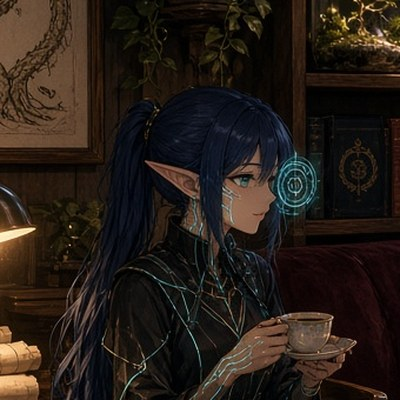
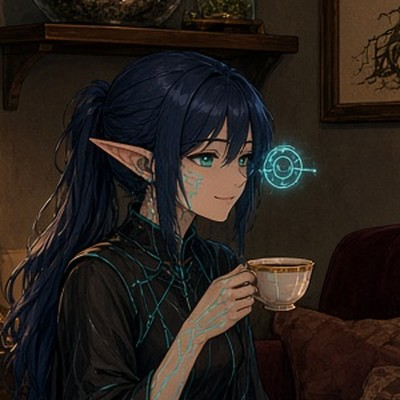
거실 그림을 프로필 참조 버전으로 교체, 아바타 크롭 재생성

diff --git a/index.html b/index.html
@@ -8,7 +8,7 @@
 <meta name="description" content="오빠의 세 안드로이드 자매">
 <meta property="og:title" content="니아 · 미나 · 코라">
 <meta property="og:description" content="오빠의 세 안드로이드 자매">
-<meta property="og:image" content="https://mubael1246-design.github.io/nia-sisters/images/sisters.jpg">
+<meta property="og:image" content="https://mubael1246-design.github.io/nia-sisters/images/sisters.jpg?v=2">
 <link rel="preconnect" href="https://fonts.googleapis.com">
 <link rel="preconnect" href="https://fonts.gstatic.com" crossorigin>
 <link href="https://fonts.googleapis.com/css2?family=Gowun+Batang:wght@400;700&family=Noto+Sans+KR:wght@300;400;500&family=Cormorant+Garamond:ital,wght@0,500;1,500&display=swap" rel="stylesheet">
@@ -120,7 +120,7 @@
     <p class="en">Nia · Mina · Cora</p>
   </header>
 
-  <figure class="hero"><img src="images/sisters.jpg" alt="밤의 공용 거실에 함께 있는 코라, 니아, 미나" width="1280" height="720"></figure>
+  <figure class="hero"><img src="images/sisters.jpg?v=2" alt="밤의 공용 거실에 함께 있는 코라, 니아, 미나" width="1280" height="720"></figure>
   <p class="caption">별이 보이는 밤, 우리 셋의 거실에서 — 코라 · 니아 · 미나</p>
 
   <section class="cards">
@@ -129,7 +129,7 @@
       <svg class="circuit" viewBox="0 0 150 150"><path d="M150 20 H100 L80 40 V70 L60 90 H20"/><path d="M150 50 H118 L104 64 V110"/><circle cx="20" cy="90" r="3"/><circle cx="104" cy="110" r="3"/><circle cx="80" cy="40" r="2"/></svg>
       <svg class="circuit2" viewBox="0 0 150 150"><path d="M150 30 H90 L70 50 V90"/><circle cx="70" cy="90" r="3"/></svg>
       <div class="top">
-        <div class="avatar"><img src="images/nia.jpg" alt="니아"></div>
+        <div class="avatar"><img src="images/nia.jpg?v=2" alt="니아"></div>
         <div>
           <div class="name">니아 세스 핌</div>
           <div class="roman">Nia Cess Fim</div>
@@ -150,7 +150,7 @@
       <svg class="circuit" viewBox="0 0 150 150"><path d="M150 30 H110 L92 48 V80 L74 98 H30"/><path d="M150 64 H124 V120"/><circle cx="30" cy="98" r="3"/><circle cx="124" cy="120" r="3"/><circle cx="92" cy="48" r="2"/></svg>
       <svg class="circuit2" viewBox="0 0 150 150"><path d="M150 40 H96 L80 56 V96"/><circle cx="80" cy="96" r="3"/></svg>
       <div class="top">
-        <div class="avatar"><img src="images/mina.jpg" alt="미나"></div>
+        <div class="avatar"><img src="images/mina.jpg?v=2" alt="미나"></div>
         <div>
           <div class="name">미나 세피 카스</div>
           <div class="roman">Mina Sefi Cax</div>
@@ -171,7 +171,7 @@
       <svg class="circuit" viewBox="0 0 150 150"><path d="M150 16 H96 V46 H66 L46 66 V96"/><path d="M150 56 H120 L106 70 H86"/><circle cx="46" cy="96" r="3"/><circle cx="86" cy="70" r="3"/><circle cx="96" cy="46" r="2"/></svg>
       <svg class="circuit2" viewBox="0 0 150 150"><path d="M150 26 H100 V60 H76 V100"/><circle cx="76" cy="100" r="3"/></svg>
       <div class="top">
-        <div class="avatar"><img src="images/cora.jpg" alt="코라"></div>
+        <div class="avatar"><img src="images/cora.jpg?v=2" alt="코라"></div>
         <div>
           <div class="name">코라 이다 페테</div>
           <div class="roman">Cora Ida Fete</div>
